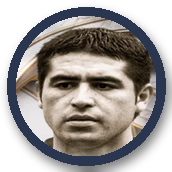
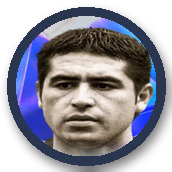
Actualizar resultados y estadisticas (08/09/2026 12:19)

Changed region(s): [[0.0872, 0.0872, 0.843, 0.843], [0.7558, 0.3198, 0.9302, 0.814], [0.3488, 0.843, 0.4942, 0.9012]]

diff --git a/index.html b/index.html
@@ -171,7 +171,7 @@
 <header>
   <img class="crest" src="img/escudo.png" alt="Escudo Peña QueSeFolme">
   <h1>Peña QueSeFolme</h1>
-  <p>Resultados y Estadísticas · Actualizado el 07/09/2026 19:20</p>
+  <p>Resultados y Estadísticas · Actualizado el 08/09/2026 12:19</p>
 </header>
 <nav>
   <a href="#proximo">🔜 Próximo partido</a>
